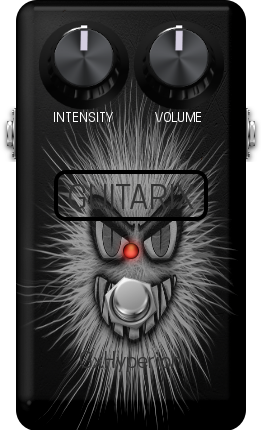
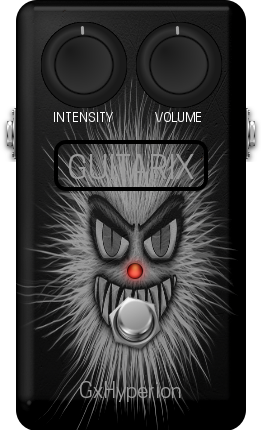
* reworked MOD UI

diff --git a/MOD/modgui/stylesheet-gxhyperion.css b/MOD/modgui/stylesheet-gxhyperion.css
@@ -53,7 +53,7 @@
     right:0;
     text-align:center;
     text-transform:uppercase;
-    top:160px;
+    top:130px;
 }
 
 .mod-pedal-boxy{{{cns}}} .mod-plugin-brand h1 {
@@ -91,7 +91,7 @@
     position:absolute;
     right:30px;
     text-align:center;
-    top:340px;
+    top:370px;
 }
 
 .mod-pedal-boxy{{{cns}}} .mod-plugin-name h1 {
@@ -118,10 +118,10 @@
     background-position:center center;
     background-repeat:no-repeat;
     height:32px;
-    left:10px;
+    left:14px;
     position:absolute;
-    right:10px;
-    top:235px;
+    right:6px;
+    top:255px;
 }
 
 .mod-pedal-boxy{{{cns}}}.mod-five-knobs .mod-light,
@@ -147,9 +147,9 @@
     background-position:bottom center;
     background-repeat:no-repeat;
     background-size:auto 132px;
-    bottom: 95px;
-    left: 13px;
-    right: 13px;
+    bottom: 75px;
+    left: 17px;
+    right: 9px;
     cursor:pointer;
     height:66px;
     width: 66px;
@@ -929,7 +929,6 @@
 .mod-pedal-boxy{{{cns}}}.mod-boxy75.mod-stb {
     background-image:url(/resources/pedals/boxy75/stb.png{{{ns}}});
 }
-}
 .mod-pedal-boxy{{{cns}}}.mod-voodoo {
     background-image:url(/resources/pedals/boxy/voodoo.png{{{ns}}});
 }
@@ -938,6 +937,12 @@
 }
 .mod-pedal-boxy{{{cns}}}.mod-hyperion {
     background-image:url(/resources/pedals/boxy/hyperion.png{{{ns}}});
+}
+.mod-pedal-boxy{{{cns}}}.mod-tonemachine {
+    background-image:url(/resources/pedals/boxy/tonemachine.png{{{ns}}});
+}
+.mod-pedal-boxy{{{cns}}}.mod-boxy75.mod-tonemachine {
+    background-image:url(/resources/pedals/boxy75/tonemachine.png{{{ns}}});
 }
 
 
@@ -965,6 +970,7 @@
 .mod-pedal-boxy{{{cns}}}.mod-saturator .mod-enumerated
 .mod-pedal-boxy{{{cns}}}.mod-stb .mod-enumerated
 .mod-pedal-boxy{{{cns}}}.mod-hyperion .mod-enumerated
+.mod-pedal-boxy{{{cns}}}.mod-tonemachine .mod-enumerated
 {
     background-image:url(/resources/utils/dropdown-arrow-white.png{{{ns}}});
 }
@@ -1035,24 +1041,30 @@
 .mod-pedal-boxy{{{cns}}}.mod-warning .mod-control-group .mod-knob > span.mod-knob-title,
 .mod-pedal-boxy{{{cns}}}.mod-green h1,
 .mod-pedal-boxy{{{cns}}}.mod-green .mod-enumerated,
-.mod-pedal-boxy{{{cns}}}.mod-green .mod-control-group .mod-knob > span.mod-knob-title
+.mod-pedal-boxy{{{cns}}}.mod-green .mod-control-group .mod-knob > span.mod-knob-title,
 .mod-pedal-boxy{{{cns}}}.mod-vintage h1,
 .mod-pedal-boxy{{{cns}}}.mod-vintage .mod-enumerated,
-.mod-pedal-boxy{{{cns}}}.mod-vintage .mod-control-group .mod-knob > span.mod-knob-title
+.mod-pedal-boxy{{{cns}}}.mod-vintage .mod-control-group .mod-knob > span.mod-knob-title,
 .mod-pedal-boxy{{{cns}}}.mod-saturator h1,
 .mod-pedal-boxy{{{cns}}}.mod-saturator .mod-enumerated,
-.mod-pedal-boxy{{{cns}}}.mod-saturator .mod-control-group .mod-knob > span.mod-knob-title
+.mod-pedal-boxy{{{cns}}}.mod-saturator .mod-control-group .mod-knob > span.mod-knob-title,
 .mod-pedal-boxy{{{cns}}}.mod-stb h1,
 .mod-pedal-boxy{{{cns}}}.mod-stb .mod-enumerated,
-.mod-pedal-boxy{{{cns}}}.mod-stb .mod-control-group .mod-knob > span.mod-knob-title
+.mod-pedal-boxy{{{cns}}}.mod-stb .mod-control-group .mod-knob > span.mod-knob-title,
 .mod-pedal-boxy{{{cns}}}.mod-voodoo h1,
 .mod-pedal-boxy{{{cns}}}.mod-voodoo .mod-enumerated,
-.mod-pedal-boxy{{{cns}}}.mod-voodoo .mod-control-group .mod-knob > span.mod-knob-title
-.mod-pedal-boxy{{{cns}}}.mod-hyperion h1,
+.mod-pedal-boxy{{{cns}}}.mod-voodoo .mod-control-group .mod-knob > span.mod-knob-title,
 .mod-pedal-boxy{{{cns}}}.mod-hyperion .mod-enumerated,
-.mod-pedal-boxy{{{cns}}}.mod-hyperion .mod-control-group .mod-knob > span.mod-knob-title
+.mod-pedal-boxy{{{cns}}}.mod-hyperion .mod-control-group .mod-knob > span.mod-knob-title,
+.mod-pedal-boxy{{{cns}}}.mod-tonemachine h1,
+.mod-pedal-boxy{{{cns}}}.mod-tonemachine .mod-enumerated,
+.mod-pedal-boxy{{{cns}}}.mod-tonemachine .mod-control-group .mod-knob > span.mod-knob-title
 {
     color:white;
+}
+.mod-pedal-boxy{{{cns}}}.mod-hyperion h1
+{
+    color:#999999 ;
 }
 .mod-pedal-boxy{{{cns}}}.mod-gold h1,
 .mod-pedal-boxy{{{cns}}}.mod-gold .mod-enumerated,
@@ -1163,4 +1175,6 @@
     background-image:url(/resources/knobs/boxy/black.png{{{ns}}});
 }.mod-pedal-boxy{{{cns}}} .mod-control-group.mod-green .mod-knob .mod-knob-image {
     background-image:url(/resources/knobs/boxy/green.png{{{ns}}});
+}.mod-pedal-boxy{{{cns}}} .mod-control-group.mod-cairo .mod-knob .mod-knob-image {
+    background-image:url(/resources/knobs/boxy/cairo.png{{{ns}}});
 }
